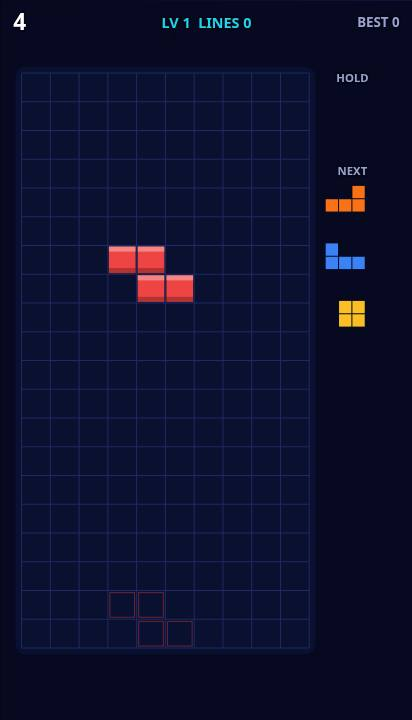
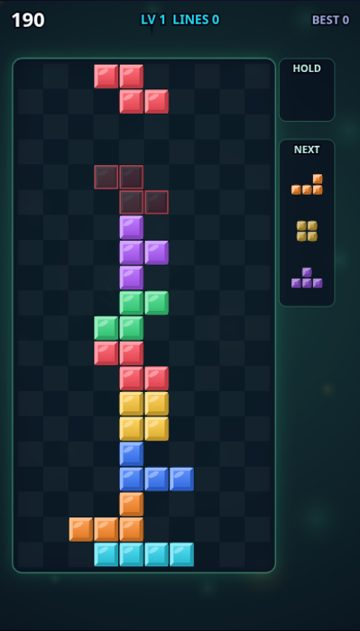
games-lib: Block Drop visual upgrade (glossy tiles, FX); e2e + bug pass PASS

diff --git a/public/games-lib/block-drop/game.js b/public/games-lib/block-drop/game.js
@@ -2,7 +2,19 @@
 (function () {
   const C = 10, R = 20, S = 28, OX = 20, OY = 70;
   const SH = { I: [[0, 1], [1, 1], [2, 1], [3, 1]], O: [[1, 0], [2, 0], [1, 1], [2, 1]], T: [[1, 0], [0, 1], [1, 1], [2, 1]], S: [[1, 0], [2, 0], [0, 1], [1, 1]], Z: [[0, 0], [1, 0], [1, 1], [2, 1]], J: [[0, 0], [0, 1], [1, 1], [2, 1]], L: [[2, 0], [0, 1], [1, 1], [2, 1]] };
-  const COL = { I: '#22d3ee', O: '#fbbf24', T: '#a855f7', S: '#34d399', Z: '#ef4444', J: '#3b82f6', L: '#f97316' };
+  const COL = { I: '#2fd6f0', O: '#ffc93c', T: '#b15cff', S: '#3ddc84', Z: '#ff4f5e', J: '#3d7bff', L: '#ff8c2e' };
+  const SPR = {}; // pre-rendered glossy bevelled tiles
+  function tile(col, sz) { const k = col + sz; if (SPR[k]) return SPR[k]; const cv = document.createElement('canvas'); cv.width = cv.height = sz * 2; const c = cv.getContext('2d'); c.scale(2, 2);
+    const sh = (hex, f) => { const n = parseInt(hex.slice(1), 16); let r = n >> 16, g = (n >> 8) & 255, b = n & 255; const m = f > 0 ? (v) => v + (255 - v) * f : (v) => v * (1 + f); return `rgb(${m(r) | 0},${m(g) | 0},${m(b) | 0})`; };
+    const b = Math.max(3, sz * 0.14); c.fillStyle = sh(col, -0.45); Kit.rr(c, 0.5, 0.5, sz - 1, sz - 1, 4); c.fill();
+    c.fillStyle = sh(col, 0.45); c.beginPath(); c.moveTo(1, 1); c.lineTo(sz - 1, 1); c.lineTo(sz - 1 - b, 1 + b); c.lineTo(1 + b, 1 + b); c.lineTo(1 + b, sz - 1 - b); c.lineTo(1, sz - 1); c.fill();
+    c.fillStyle = sh(col, -0.25); c.beginPath(); c.moveTo(sz - 1, 1); c.lineTo(sz - 1, sz - 1); c.lineTo(1, sz - 1); c.lineTo(1 + b, sz - 1 - b); c.lineTo(sz - 1 - b, sz - 1 - b); c.lineTo(sz - 1 - b, 1 + b); c.fill();
+    const gr = c.createLinearGradient(0, b, 0, sz - b); gr.addColorStop(0, sh(col, 0.18)); gr.addColorStop(1, sh(col, -0.12)); c.fillStyle = gr; c.fillRect(1 + b, 1 + b, sz - 2 - 2 * b, sz - 2 - 2 * b);
+    c.fillStyle = 'rgba(255,255,255,.35)'; c.beginPath(); c.ellipse(sz * 0.38, sz * 0.32, sz * 0.22, sz * 0.09, -0.5, 0, 7); c.fill(); return (SPR[k] = cv); }
+  let BGC = null; function boardBg(W, H) { if (BGC) return BGC; const cv = document.createElement('canvas'); cv.width = W; cv.height = H; const c = cv.getContext('2d'); const g = c.createRadialGradient(W / 2, H * 0.4, 40, W / 2, H * 0.5, H * 0.8); g.addColorStop(0, '#173a3a'); g.addColorStop(1, '#060a18'); c.fillStyle = g; c.fillRect(0, 0, W, H);
+    for (let i = 0; i < 26; i++) { const x = (i * 97) % W, y = (i * 211) % H, r = 10 + (i * 37) % 40; const b = c.createRadialGradient(x, y, 0, x, y, r); b.addColorStop(0, i % 3 ? 'rgba(80,220,160,.10)' : 'rgba(255,200,80,.10)'); b.addColorStop(1, 'rgba(0,0,0,0)'); c.fillStyle = b; c.fillRect(x - r, y - r, 2 * r, 2 * r); }
+    // faint leaf watermark (21+ theme)
+    c.save(); c.translate(W / 2 - 60, H * 0.5); c.globalAlpha = 0.05; c.fillStyle = '#7dffb0'; for (let i = -3; i <= 3; i++) { c.save(); c.rotate(i * 0.38); c.beginPath(); c.ellipse(0, -70 + Math.abs(i) * 12, 11 - Math.abs(i), 70 - Math.abs(i) * 12, 0, 0, 7); c.fill(); c.restore(); } c.restore(); return (BGC = cv); }
   const rot = (cells, k, n) => cells.map(([x, y]) => { for (let i = 0; i < k; i++) [x, y] = [n - 1 - y, x]; return [x, y]; });
   Kit.run({ id: 'gl-block-drop', title: 'BLOCK DROP', help: 'Arrows / swipe to move, Up / tap to rotate\nDown soft drop, Space hard drop, C hold', bg: '#060920',
     init(g) { g.bd = Array.from({ length: R }, () => Array(C).fill(null)); g.bag = []; g.lines = 0; g.lv = 1; g.fall = 0; g.hold = null; g.canHold = true; g.lock = 0; g.clr = []; g.nextQ = []; for (let i = 0; i < 3; i++) g.nextQ.push(take(g)); spawn(g); g.das = 0; },
@@ -13,7 +25,7 @@
       const hx = (g.keys.ArrowLeft || g.keys.a ? -1 : 0) + (g.keys.ArrowRight || g.keys.d ? 1 : 0); if (hx) { g.das += dt; if (g.das > 0.05) { g.das = 0; mv(hx); } }
       if (g.kd('ArrowUp') || g.kd('w') || g.kd('x')) rotate(g, 1); if (g.kd('z')) rotate(g, 3);
       if (g.kd('c') || g.kd('C') || g.kd('Shift')) doHold(g);
-      if (g.kd(' ')) { let d = 0; while (fits(g, p.cells, p.x, p.y + 1)) { p.y++; d++; } g.add(2 * d, 'd'); g.shake(4); g.sfx('thud'); return place(g); }
+      if (g.kd(' ')) { const xs = p.cells.map(q => p.x + q[0]), y0 = p.y + Math.min(...p.cells.map(q => q[1])); let d = 0; while (fits(g, p.cells, p.x, p.y + 1)) { p.y++; d++; } g.add(2 * d, 'd'); g.shake(4); g.trail = 0.18; g.trailD = { x0: Math.min(...xs), x1: Math.max(...xs), y0: Math.max(0, y0), y1: p.y + Math.max(...p.cells.map(q => q[1])) }; g.sfx('thud'); return place(g); }
       // touch: drag horizontally = move per cell, drag down = soft drop, quick swipe down = hard drop, tap = rotate (right half) / hold (top area)
       const P = g.ptr; if (P.pressed) { g.tx = P.x; g.ty = P.y; g.t0 = g.t; g.moved = false; }
       if (P.down) { while (P.x - g.tx > S * 0.9) { mv(1); g.tx += S * 0.9; g.moved = true; } while (g.tx - P.x > S * 0.9) { mv(-1); g.tx -= S * 0.9; g.moved = true; } if (P.y - g.ty > S) { if (fits(g, p.cells, p.x, p.y + 1)) { p.y++; g.add(1, 'd'); } g.ty += S; g.moved = true; } }
@@ -24,22 +36,29 @@
       g.hud = 'LV ' + g.lv + '  LINES ' + g.lines;
     },
     draw(g, c) {
-      c.fillStyle = '#0a1030'; Kit.rr(c, OX - 6, OY - 6, C * S + 12, R * S + 12, 10); c.fill(); c.strokeStyle = '#1d2a66'; c.lineWidth = 1;
-      for (let x = 0; x <= C; x++) { c.beginPath(); c.moveTo(OX + x * S, OY); c.lineTo(OX + x * S, OY + R * S); c.stroke(); }
-      for (let y = 0; y <= R; y++) { c.beginPath(); c.moveTo(OX, OY + y * S); c.lineTo(OX + C * S, OY + y * S); c.stroke(); }
-      for (let y = 0; y < R; y++) for (let x = 0; x < C; x++) if (g.bd[y][x]) cell(c, OX + x * S, OY + y * S, g.bd[y][x], g.clr.includes(y) ? 0.4 + Math.sin(g.t * 40) * 0.4 : 1);
-      if (g.p && !g.clr.length) { const p = g.p; let gy = p.y; while (fits(g, p.cells, p.x, gy + 1)) gy++; for (const [x, y] of p.cells) { c.strokeStyle = COL[p.k]; c.globalAlpha = 0.4; c.strokeRect(OX + (p.x + x) * S + 2, OY + (gy + y) * S + 2, S - 4, S - 4); c.globalAlpha = 1; } for (const [x, y] of p.cells) if (p.y + y >= 0) cell(c, OX + (p.x + x) * S, OY + (p.y + y) * S, COL[p.k], 1); }
-      const sx = OX + C * S + 16; g.txt('HOLD', sx + 26, OY + 6, 11, '#9aa3d0'); if (g.hold) mini(c, g.hold, sx, OY + 20);
-      g.txt('NEXT', sx + 26, OY + 96, 11, '#9aa3d0'); (g.nextQ || []).forEach((k, i) => mini(c, k, sx, OY + 110 + i * 56));
+      c.drawImage(boardBg(g.W, g.H), 0, 0);
+      c.save(); c.shadowColor = 'rgba(60,255,170,.25)'; c.shadowBlur = 18; c.fillStyle = 'rgba(8,14,30,.82)'; Kit.rr(c, OX - 6, OY - 6, C * S + 12, R * S + 12, 10); c.fill(); c.restore();
+      c.strokeStyle = 'rgba(120,255,190,.35)'; c.lineWidth = 1.5; Kit.rr(c, OX - 6, OY - 6, C * S + 12, R * S + 12, 10); c.stroke();
+      c.fillStyle = 'rgba(255,255,255,.035)'; for (let y = 0; y < R; y++) for (let x = 0; x < C; x++) if ((x + y) & 1) c.fillRect(OX + x * S, OY + y * S, S, S);
+      for (let y = 0; y < R; y++) for (let x = 0; x < C; x++) if (g.bd[y][x]) cell(c, OX + x * S, OY + y * S, g.bd[y][x], 1);
+      if (g.clr.length) { const k = 1 - Math.max(0, g.clrT) / 0.25; for (const y of g.clr) { c.fillStyle = `rgba(255,255,255,${0.85 * (1 - k)})`; c.fillRect(OX, OY + y * S, C * S, S); const w = C * S * k; c.fillStyle = 'rgba(8,14,30,.95)'; c.fillRect(OX + C * S / 2 - w / 2, OY + y * S, w, S); } }
+      if (g.lockFx > 0) { g.lockFx -= 1 / 60; c.globalAlpha = Math.max(0, g.lockFx) * 3; c.fillStyle = '#fff'; for (const [x, y] of g.lockCells || []) c.fillRect(OX + x * S + 1, OY + y * S + 1, S - 2, S - 2); c.globalAlpha = 1; }
+      if (g.trail > 0) { g.trail -= 1 / 60; const t = g.trailD; const gr = c.createLinearGradient(0, OY + t.y0 * S, 0, OY + t.y1 * S); gr.addColorStop(0, 'rgba(255,255,255,0)'); gr.addColorStop(1, `rgba(255,255,255,${0.35 * g.trail / 0.18})`); c.fillStyle = gr; c.fillRect(OX + t.x0 * S, OY + t.y0 * S, (t.x1 - t.x0 + 1) * S, (t.y1 - t.y0) * S); }
+      if (g.p && !g.clr.length) { const p = g.p; let gy = p.y; while (fits(g, p.cells, p.x, gy + 1)) gy++; c.globalAlpha = 0.22; for (const [x, y] of p.cells) if (gy + y >= 0) c.drawImage(tile(COL[p.k], S), OX + (p.x + x) * S, OY + (gy + y) * S, S, S); c.globalAlpha = 0.6; c.strokeStyle = COL[p.k]; c.lineWidth = 1.5; for (const [x, y] of p.cells) if (gy + y >= 0) c.strokeRect(OX + (p.x + x) * S + 1.5, OY + (gy + y) * S + 1.5, S - 3, S - 3); c.globalAlpha = 1;
+        for (const [x, y] of p.cells) if (p.y + y >= 0) cell(c, OX + (p.x + x) * S, OY + (p.y + y) * S, COL[p.k], 1); }
+      const sx = OX + C * S + 14; panel(c, sx - 4, OY - 6, 62, 70); panel(c, sx - 4, OY + 84, 62, 186);
+      g.txt('HOLD', sx + 27, OY + 6, 11, '#bfeedd'); if (g.hold) mini(c, g.hold, sx + 27, OY + 38, g.canHold ? 1 : 0.4);
+      g.txt('NEXT', sx + 27, OY + 96, 11, '#bfeedd'); (g.nextQ || []).forEach((k, i) => mini(c, k, sx + 27, OY + 134 + i * 52, i ? 0.8 : 1));
     } });
-  function cell(c, x, y, col, a) { c.globalAlpha = a; c.fillStyle = col; c.fillRect(x + 1, y + 1, S - 2, S - 2); c.fillStyle = 'rgba(255,255,255,.35)'; c.fillRect(x + 1, y + 1, S - 2, 5); c.fillStyle = 'rgba(0,0,0,.25)'; c.fillRect(x + 1, y + S - 6, S - 2, 5); c.globalAlpha = 1; }
-  function mini(c, k, x, y) { for (const [a, b] of SH[k]) { c.fillStyle = COL[k]; c.fillRect(x + a * 13, y + b * 13, 12, 12); } }
+  function cell(c, x, y, col, a) { c.globalAlpha = a; c.drawImage(tile(col, S), x, y, S, S); c.globalAlpha = 1; }
+  function panel(c, x, y, w, h) { c.fillStyle = 'rgba(8,14,30,.7)'; Kit.rr(c, x, y, w, h, 8); c.fill(); c.strokeStyle = 'rgba(120,255,190,.25)'; c.lineWidth = 1; Kit.rr(c, x, y, w, h, 8); c.stroke(); }
+  function mini(c, k, cx, cy, a) { const z = 12, xs = SH[k].map(q => q[0]), ys = SH[k].map(q => q[1]); const w = (Math.max(...xs) - Math.min(...xs) + 1) * z, h = (Math.max(...ys) - Math.min(...ys) + 1) * z; c.globalAlpha = a; for (const [p, q] of SH[k]) c.drawImage(tile(COL[k], z), cx - w / 2 + (p - Math.min(...xs)) * z, cy - h / 2 + (q - Math.min(...ys)) * z, z, z); c.globalAlpha = 1; }
   function take(g) { if (!g.bag.length) { g.bag = Object.keys(SH); for (let i = 6; i > 0; i--) { const j = Math.floor(g.rnd() * (i + 1)); [g.bag[i], g.bag[j]] = [g.bag[j], g.bag[i]]; } } return g.bag.pop(); }
   function spawn(g, k) { k = k || g.nextQ.shift(); if (g.nextQ.length < 3) g.nextQ.push(take(g)); const n = k === 'I' || k === 'O' ? 4 : 3; g.p = { k, n, r: 0, cells: SH[k].map(a => a.slice()), x: 3, y: -1 }; g.canHold = true; g.lock = 0.5; if (!fits(g, g.p.cells, g.p.x, g.p.y)) g.end('Stacked out'); }
   function doHold(g) { if (!g.canHold) return; const k = g.p.k; if (g.hold) spawn(g, g.hold); else spawn(g); g.hold = k; g.canHold = false; g.sfx('whoosh'); }
   function fits(g, cells, px, py) { for (const [x, y] of cells) { const X = px + x, Y = py + y; if (X < 0 || X >= C || Y >= R) return false; if (Y >= 0 && g.bd[Y][X]) return false; } return true; }
   function rotate(g, k) { const p = g.p; if (p.k === 'O') return; const nc = rot(SH[p.k], (p.r + k) % 4, p.n); for (const dx of [0, -1, 1, -2, 2]) for (const dy of [0, -1]) if (fits(g, nc, p.x + dx, p.y + dy)) { p.cells = nc; p.r = (p.r + k) % 4; p.x += dx; p.y += dy; g.sfx('click'); g.lock = Math.min(g.lock + 0.1, 0.5); return; } }
-  function place(g) { const p = g.p; for (const [x, y] of p.cells) { if (p.y + y < 0) return g.end('Stacked out'); g.bd[p.y + y][p.x + x] = COL[p.k]; } g.sfx('thud');
+  function place(g) { const p = g.p; for (const [x, y] of p.cells) { if (p.y + y < 0) return g.end('Stacked out'); g.bd[p.y + y][p.x + x] = COL[p.k]; } g.sfx('thud'); g.lockFx = 0.12; g.lockCells = p.cells.map(([x, y]) => [p.x + x, p.y + y]);
     const full = []; for (let y = 0; y < R; y++) if (g.bd[y].every(Boolean)) full.push(y);
     if (full.length) { const pts = [0, 100, 300, 500, 800][full.length] * g.lv; g.add(pts, 'l'); g.lines += full.length; g.float(OX + C * S / 2, OY + full[0] * S, full.length === 4 ? 'QUAD! +' + pts : '+' + pts, full.length === 4 ? '#fbbf24' : '#34d399', 22); g.sfx('line'); g.shake(full.length * 3);
       for (const y of full) g.burst(OX + C * S / 2, OY + y * S + S / 2, ['#22d3ee', '#a855f7', '#fff'], 20, 300); const nl = 1 + Math.floor(g.lines / 10); if (nl > g.lv) { g.lv = nl; g.mark('w', nl); g.sfx('power'); g.flash('#6366f1'); }

diff --git a/docs/GAMES-LIB.md b/docs/GAMES-LIB.md
@@ -326,3 +326,8 @@ For each reference we searched GitHub (topics html5-game / javascript-game / pha
 - Candidates: Clumsy Bird (GPL-3.0, melonJS). REJECTED because its art is a near-copy of the reference's bird, pipes and logo, and its music has no stated source. Also considered: the flappy-bird HTML5 clones on GitHub (same art problem), and our old 2.7 KB neon build (programmer art, rated 4).
 - Built: an original rebuild on kit.js with Kenney Tappy Plane CC0 art (WebP, 112 KB): parallax sky, scrolling grass ground, rock spire gates with triangle collision, a 3-frame prop animation, eased tilt, exhaust puffs, shake and flash on a crash, sprite number HUD, and a distant "Green Summit 21+" banner plane.
 - Tests: e2e PASS (60 FPS). Bug pass PASS (seeded x3, pause, tab, rotate, 4x throttle 37 FPS, memory +0.0 MB). Bot: 3 runs survived the 60 s cap with 43 gates each. Side-by-side: docs/audit/sky-flap-vs-ref.jpg. Rating: visual 8/10, feel 8/10.
+
+## Block Drop - DONE (2026-10-10 04:25 ET)
+- Candidates: vendoring react-tetris (Apache-2.0) and tetris-js clones (MIT). Rejected: both use the classic LCD or flat look, ship trademark naming, and our build already has guideline features (7-bag, hold, ghost, 3-piece preview, kicks). Kept our build and upgraded its visuals.
+- Upgrade: pre-rendered glossy bevelled jewel tiles, a glass board panel with a soft glow, a checker well, a radial backdrop with bokeh and a faint leaf watermark, a filled and outlined ghost, a hard-drop light trail, a lock flash, a white-wipe line clear, and styled hold/next panels with centred previews. Scoring is unchanged, so the server rules are unchanged.
+- Tests: e2e PASS (60 FPS). Bug pass PASS (4x throttle 25 FPS, memory +0.0 MB). Side-by-side: docs/audit/block-drop-vs-ref.jpg (the reference image is an EA mobile results screen, the only free-licence-usable capture available). Rating: visual 7/10, feel 8/10.

diff --git a/HANDOFF-AGENT.md b/HANDOFF-AGENT.md
@@ -25,7 +25,8 @@ Remaining:
 - Hex Stack DONE (vendored Hextris, GPL-3.0, stripped ads/analytics/score beacon; e2e + bug pass PASS).
 - Tools: `tools/e2e-games-lib.js` (supports DOM games via `#gl`), `tools/games-lib-bugpass.js`, `tools/games-lib-audit.js`. Bots: /tmp/jt.js (Ruin Runner turns), /tmp/lrbot2.js (racers, in-page).
 - Sky Flap DONE (rebuilt with Kenney Tappy Plane CC0; Clumsy Bird rejected for copied art).
-- Next: continue the A+ list one at a time (Block Drop, Maze Muncher, Alien Rows, Cloud Hopper, Road Hopper...), the international source search, batches 4-8 toward 150+ (catalog `docs/REESE-MASTER-CATALOG.md`); then the bug pass and same-tier audit across all older games.
+- Block Drop DONE (glossy tile renderer, clear/drop/lock FX).
+- Next (Reese order): Maze Muncher, then shared realistic car set (Blender, 4-6 bodies, <5k tris, PBR) + Moto Lanes finish, then Alien Rows, Cloud Hopper, Road Hopper, the international source search, batches 4-8 toward 150+ (catalog `docs/REESE-MASTER-CATALOG.md`); then the bug pass and same-tier audit across all older games.
 
 ## Firm boundaries (Reese accepted)
 - No ripped/commercial game assets, characters, logos, or pirated ports (declined: CoD zombies, GTA, Halo, Skate 3, PES, Simpsons H&R, Half-Life/CS, UT). Licences must allow commercial use (CC0/CC-BY/MIT etc.; no NC, editorial, engine-locked).
